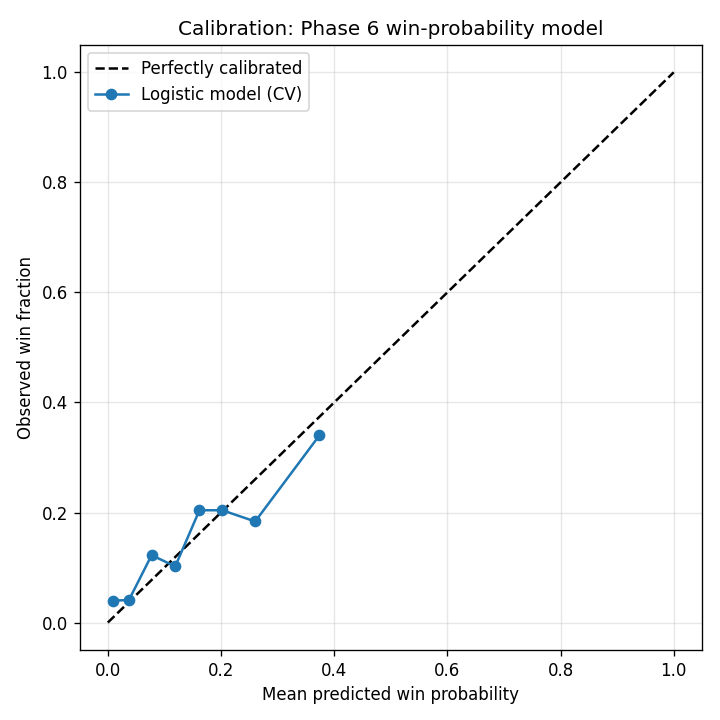
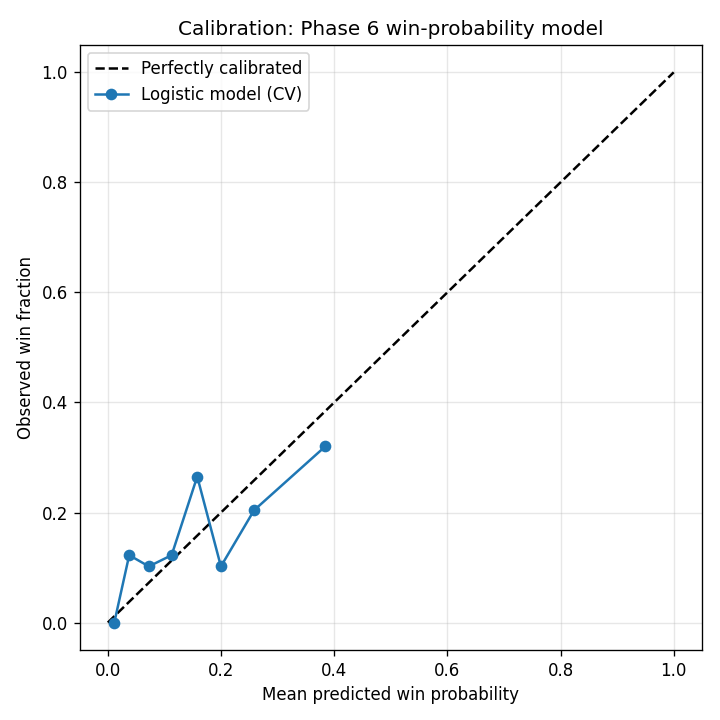
Add distance_delta as picks column 19 (held out of active model)
Parser extracts today's distance from race headers ('6 Furlongs',
'1Mile.', '1 1/16 Miles', '1 Mile 70 Yards') and last-race distance
from PP line prefixes, decoding 'm'/'f' units plus Brisnet glyphs
'^'=1/16 mile and 'N'=70 yards. distance_delta = today_furlongs -
last_furlongs is stored on entries and picks for future analysis.

Coverage 1062/2895 entries (37%), 192/565 picks (34%) -- glyph prefix
junk limits older PPs.

Bucket win rates vs ML-implied (n=519 joined): turnback -0.5 to -1.5f
shows +1.1% edge, but every other bucket underperforms ML by 1-3%.

CV ablation (same data) -- every transform of distance_delta HURT
log loss vs dropping it:
  (a) drop dist_delta_c    1.4540   <-- best
  (b) raw linear           1.4574
  (c) abs(any change)      1.4555
  (d) clip [-2,+2]         1.4588
  (e) clip [-1,+1]         1.4601
Picks logistic: 0.4123 without vs 0.4195 with -- also hurts.

Decision: parser, DB columns, and picks file format keep the data
captured for future revisits, but dist_delta_c is excluded from
CL_FEATURES and distance_delta from NUMERIC_FEATURES. The public
morning line is already pricing distance changes efficiently --
opposite of the beaten_lengths and class_delta results.

CL retrained: log loss 1.4540 vs ML 1.4501, top-pick hit 46.7%
vs ML favorite 41.2% (n=199 races / 1104 starters).

diff --git a/scripts/brisnet_parser_v2.py b/scripts/brisnet_parser_v2.py
@@ -417,6 +417,68 @@ def extract_last_class(block_lines):
     return races[max(races)] if races else None
 
 
+# PP-line distance tokens: 6f, 5½ (going fused: "5½ft"), 1m, and route
+# glyphs verified by final times on FP cards (1m ~1:41 < 1Ñ ~1:45 < 1ˆ ~1:47):
+# ˆ = 1/16 mile, Ñ = 70 yards. Optional junk char before the number is a
+# surface/inner-track marker (Ì à š æ).
+_DIST_FRACTIONS = {'½': 0.5, '¼': 0.25, '¾': 0.75}
+_MILE_GLYPHS = {'ˆ': 0.5, 'Ñ': 0.32}   # in furlongs past the whole miles
+_PP_DIST_RE = re.compile(
+    r'^\s*\d{1,2}[A-Za-z]{3}\d{2}\S*\s+[^\s\d]{0,2}(\d{1,2})([½¼¾ˆÑ]?)([mf]?)')
+
+
+def _ppline_furlongs(line):
+    m = _PP_DIST_RE.match(line)
+    if not m:
+        return None
+    n, glyph, unit = int(m.group(1)), m.group(2), m.group(3)
+    if glyph in _DIST_FRACTIONS:
+        return n + _DIST_FRACTIONS[glyph]
+    if glyph in _MILE_GLYPHS:
+        return n * 8 + _MILE_GLYPHS[glyph]
+    if unit == 'm':
+        return n * 8.0
+    if unit == 'f':
+        return float(n)
+    return None
+
+
+def _header_furlongs(s):
+    """Today's distance in furlongs from a plain-text race header line
+    ('6 Furlongs', '1Mile.', '1 1/16 Miles', '1 Mile 70 Yards')."""
+    m = re.search(r'(\d{1,2})\s*(½|\d\s*/\s*\d+)?\s*Furlongs?', s)
+    if m:
+        f = float(m.group(1))
+        if m.group(2) == '½':
+            f += 0.5
+        elif m.group(2):
+            num, den = re.split(r'\s*/\s*', m.group(2))
+            f += float(num) / float(den)
+        return f
+    m = re.search(r'(\d)\s*(\d+\s*/\s*\d+)?\s*Miles?(?:\s*(?:and\s*)?(\d+)\s*Yards?)?', s)
+    if m:
+        miles = float(m.group(1))
+        if m.group(2):
+            num, den = re.split(r'\s*/\s*', m.group(2))
+            miles += float(num) / float(den)
+        f = miles * 8
+        if m.group(3):
+            f += float(m.group(3)) / 220.0
+        return f
+    return None
+
+
+def extract_last_distance(block_lines):
+    """Distance (furlongs) of the horse's most recent race, or None."""
+    races = {}
+    for line in block_lines:
+        d = _pp_line_date(line)
+        if d is None or races.get(d) is not None:
+            continue
+        races[d] = _ppline_furlongs(line)
+    return races[max(races)] if races else None
+
+
 def last_race_date_from_block(block):
     """Most recent past-race date in a horse's PP block, or None
     (first-time starters have no PP lines)."""
@@ -459,6 +521,14 @@ def parse_brisnet(text, track_code='GP', race_date=None):
                 races[current_race]['surface'] = 'AW'
             else:
                 races[current_race]['surface'] = 'Dirt'
+
+        # ── Today's distance from the plain-text header lines ────────────────
+        if current_race and races[current_race].get('dist_furlongs') is None:
+            for hline in lines[:10]:
+                f = _header_furlongs(hline)
+                if f:
+                    races[current_race]['dist_furlongs'] = f
+                    break
 
         # ── Purse / class money: the race header may share a page with horse
         # blocks (condensed y-format), so check every page ────────────────────
@@ -639,6 +709,7 @@ def parse_brisnet(text, track_code='GP', race_date=None):
 
             beaten_len = extract_beaten_lengths(block, lines)
             last_class = extract_last_class(block)
+            last_dist  = extract_last_distance(block)
 
             # ── Speed figures from PP lines in block ──────────────────────────
             spd_figs   = extract_speed_figures(block)  # [(figure, surface), ...]
@@ -711,20 +782,24 @@ def parse_brisnet(text, track_code='GP', race_date=None):
                 'best_spd_turf': best_spd_turf, 'best_spd_aw': best_spd_aw,
                 'improving': improving, 'jt_zero': jt_zero,
                 'jt_winpct': jt_winpct, 'beaten_len': beaten_len,
-                'last_class': last_class,
+                'last_class': last_class, 'last_dist': last_dist,
             }
 
             if not any(h['name'] == horse for h in races[current_race]['horses']):
                 races[current_race]['horses'].append(horse_data)
 
-    # class_delta needs today's class money (parsed from the race header
-    # page) and the horse's last-race class, so compute it after both passes
+    # class/distance deltas need today's values (parsed from the race header)
+    # and the horse's last-race values, so compute them after both passes
     for race in races.values():
         today_class = race.get('class_money')
+        today_dist = race.get('dist_furlongs')
         for h in race['horses']:
             lc = h.get('last_class')
             h['class_delta'] = (today_class - lc) \
                 if today_class is not None and lc is not None else None
+            ld = h.get('last_dist')
+            h['distance_delta'] = round(today_dist - ld, 2) \
+                if today_dist is not None and ld is not None else None
 
     return dict(races)
 
@@ -976,8 +1051,8 @@ def write_entries_db(races, track_code, race_date):
                     "ml_odds,prime_power,pp_rank,trainer,jockey,sire,"
                     "days_off,claim_price,best_spd,best_spd_turf,best_spd_aw,"
                     "recent_spd,improving,jt_zero,jt_winpct,beaten_lengths,"
-                    "class_delta,signal_types,is_pick)"
-                    " VALUES(?,?,?,?,?,?,?,?,?,?,?,?,?,?,?,?,?,?,?,?,?,?,?,?,?)",
+                    "class_delta,distance_delta,signal_types,is_pick)"
+                    " VALUES(?,?,?,?,?,?,?,?,?,?,?,?,?,?,?,?,?,?,?,?,?,?,?,?,?,?)",
                     (race_id, tc, date_str, rn, h['pp'],
                      h['name'].replace(' ', ''),
                      ml_to_float(h['ml']),
@@ -997,6 +1072,7 @@ def write_entries_db(races, track_code, race_date):
                      h.get('jt_winpct'),
                      h.get('beaten_len'),
                      h.get('class_delta'),
+                     h.get('distance_delta'),
                      ','.join(s[0] for s in h['signals']) or None,
                      int(is_strong_pick(h)))
                 )
@@ -1016,7 +1092,7 @@ def write_picks_file(all_picks, track_code, filepath):
     out_path = Path(__file__).parent / f"picks_{tc}_{date_str}.txt"
     lines = [
         f"# Benter Model Picks - {tc} {date_str}",
-        "# Format: TRACK RACE HORSE SIGNAL BETS ML_ODDS PP_POWER TRAINER WIN_PROB EV_RATIO DAYS_OFF BEST_SPD SPD1 SPD2 SPD3 JT_WINPCT BEATEN_LEN CLASS_DELTA",
+        "# Format: TRACK RACE HORSE SIGNAL BETS ML_ODDS PP_POWER TRAINER WIN_PROB EV_RATIO DAYS_OFF BEST_SPD SPD1 SPD2 SPD3 JT_WINPCT BEATEN_LEN CLASS_DELTA DIST_DELTA",
     ]
     for rn, h in sorted(all_picks, key=lambda x: x[0]):
         if is_trainer_hotjt(h):
@@ -1035,9 +1111,10 @@ def write_picks_file(all_picks, track_code, filepath):
         jt_col     = str(h['jt_winpct']) if h.get('jt_winpct') is not None else '?'
         bl_col     = f"{h['beaten_len']:.2f}" if h.get('beaten_len') is not None else '?'
         cd_col     = str(h['class_delta']) if h.get('class_delta') is not None else '?'
+        dd_col     = f"{h['distance_delta']:.2f}" if h.get('distance_delta') is not None else '?'
         # WIN_PROB/EV_RATIO (cols 9-10) are '?' until prob_predict.py --in-place fills them
         lines.append(f"{tc} {rn} {horse_name} {sig_type} WPS {ml_col} {pp_col} {trainer_col}"
-                     f" ? ? {do_col} {best_col} {spd_cols} {jt_col} {bl_col} {cd_col}")
+                     f" ? ? {do_col} {best_col} {spd_cols} {jt_col} {bl_col} {cd_col} {dd_col}")
 
     out_path.write_text('\n'.join(lines) + '\n', encoding='utf-8')
     return out_path

diff --git a/scripts/db_migrate.py b/scripts/db_migrate.py
@@ -70,6 +70,7 @@ CREATE TABLE IF NOT EXISTS picks (
     jt_winpct       REAL,
     beaten_lengths  REAL,
     class_delta     REAL,
+    distance_delta  REAL,
     trainer_name    TEXT,
     trainer_exempt  INTEGER DEFAULT 0,
     filtered_reason TEXT,
@@ -114,6 +115,7 @@ CREATE TABLE IF NOT EXISTS entries (
     jt_winpct     REAL,
     beaten_lengths REAL,
     class_delta   REAL,
+    distance_delta REAL,
     signal_types  TEXT,
     is_pick       INTEGER DEFAULT 0,
     UNIQUE(track, race_date, race_num, horse_name)
@@ -146,12 +148,13 @@ def ensure_prob_columns(conn):
                           ('last_race_date', 'TEXT'), ('best_speed', 'INTEGER'),
                           ('recent_spd_1', 'INTEGER'), ('recent_spd_2', 'INTEGER'),
                           ('recent_spd_3', 'INTEGER'), ('jt_winpct', 'REAL'),
-                          ('beaten_lengths', 'REAL'), ('class_delta', 'REAL')):
+                          ('beaten_lengths', 'REAL'), ('class_delta', 'REAL'),
+                          ('distance_delta', 'REAL')):
         if col not in existing:
             conn.execute(f"ALTER TABLE picks ADD COLUMN {col} {col_type}")
             print(f"  schema: added picks.{col}")
     existing_e = {row[1] for row in conn.execute("PRAGMA table_info(entries)")}
-    for col in ('jt_winpct', 'beaten_lengths', 'class_delta'):
+    for col in ('jt_winpct', 'beaten_lengths', 'class_delta', 'distance_delta'):
         if col not in existing_e:
             conn.execute(f"ALTER TABLE entries ADD COLUMN {col} REAL")
             print(f"  schema: added entries.{col}")
@@ -220,7 +223,8 @@ def backfill_entry_columns(conn):
     same card). Add (picks_col, entries_col) pairs here as features grow."""
     for picks_col, entries_col in (('jt_winpct', 'jt_winpct'),
                                    ('beaten_lengths', 'beaten_lengths'),
-                                   ('class_delta', 'class_delta')):
+                                   ('class_delta', 'class_delta'),
+                                   ('distance_delta', 'distance_delta')):
         cur = conn.execute(
             f"UPDATE picks SET {picks_col} = ("
             f" SELECT e.{entries_col} FROM entries e"
@@ -468,6 +472,9 @@ def import_picks(conn):
             # Column 18: class delta (today's class money - last race's)
             try:    class_delta = float(parts[17]) if len(parts) >= 18 else None
             except: class_delta = None
+            # Column 19: distance delta in furlongs (today - last race)
+            try:    dist_delta = float(parts[18]) if len(parts) >= 19 else None
+            except: dist_delta = None
 
             cur.execute(
                 "SELECT race_id FROM races WHERE track=? AND race_date=? AND race_num=?",
@@ -481,17 +488,17 @@ def import_picks(conn):
                 "(track,race_date,race_num,race_id,horse_name,signal_type,bets,"
                 "ml_odds,pp_power,win_prob,ev_ratio,days_off,"
                 "best_speed,recent_spd_1,recent_spd_2,recent_spd_3,jt_winpct,"
-                "beaten_lengths,class_delta,trainer_name)"
-                " VALUES(?,?,?,?,?,?,?,?,?,?,?,?,?,?,?,?,?,?,?,?)",
+                "beaten_lengths,class_delta,distance_delta,trainer_name)"
+                " VALUES(?,?,?,?,?,?,?,?,?,?,?,?,?,?,?,?,?,?,?,?,?)",
                 (p_track, date_str, p_race, race_id, p_horse, p_signal, bets,
                  ml_odds, pp_power, win_prob, ev_ratio, days_off,
                  best_speed, rs1, rs2, rs3, jt_winpct, beaten_len, class_delta,
-                 trainer_name)
+                 dist_delta, trainer_name)
             )
             if cur.rowcount:
                 n_picks += 1
             elif any(v is not None for v in (win_prob, days_off, best_speed, jt_winpct,
-                                             beaten_len, class_delta)):
+                                             beaten_len, class_delta, dist_delta)):
                 # Pick imported before its file was annotated (or re-annotated
                 # after a model fix) — sync optional columns from the file
                 cur.execute(
@@ -503,10 +510,11 @@ def import_picks(conn):
                     " recent_spd_3=COALESCE(?,recent_spd_3),"
                     " jt_winpct=COALESCE(?,jt_winpct),"
                     " beaten_lengths=COALESCE(?,beaten_lengths),"
-                    " class_delta=COALESCE(?,class_delta)"
+                    " class_delta=COALESCE(?,class_delta),"
+                    " distance_delta=COALESCE(?,distance_delta)"
                     " WHERE track=? AND race_date=? AND race_num=? AND horse_name=?",
                     (win_prob, ev_ratio, days_off, best_speed, rs1, rs2, rs3, jt_winpct,
-                     beaten_len, class_delta, p_track, date_str, p_race, p_horse)
+                     beaten_len, class_delta, dist_delta, p_track, date_str, p_race, p_horse)
                 )
 
     conn.commit()

diff --git a/scripts/prob_model.py b/scripts/prob_model.py
@@ -40,6 +40,10 @@ CL_CALIBRATION_PLOT_PATH = os.path.join(SCRIPT_DIR, "calibration_plot_cl.png")
 
 NUMERIC_FEATURES = ["ml_odds", "pp_power", "days_off", "best_speed", "jt_winpct",
                     "beaten_lengths", "class_delta"]
+# distance_delta is captured in entries/picks but held out of the active model:
+# ablation showed it hurts CV log loss in both the picks logistic (0.4123 -> 0.4195)
+# and the conditional logit (1.4540 -> 1.4574). Distance changes are already
+# efficiently priced by the public ML.
 CATEGORICAL_FEATURES = ["signal_type", "track", "surface"]
 
 TRAINING_SQL = """
@@ -54,6 +58,7 @@ SELECT
     p.jt_winpct,
     p.beaten_lengths,
     p.class_delta,
+    p.distance_delta,
     COALESCE(rc.surface, 'Dirt')             AS surface,
     COALESCE(e.finish_pos, r.finish_pos)     AS finish_pos,
     r.odds                                   AS final_odds,
@@ -152,6 +157,7 @@ def train_picks_model():
     print(f"  jt_winpct present: {df['jt_winpct'].notna().sum()}/{n}")
     print(f"  beaten_lengths present: {df['beaten_lengths'].notna().sum()}/{n}")
     print(f"  class_delta present: {df['class_delta'].notna().sum()}/{n}")
+    print(f"  distance_delta present: {df['distance_delta'].notna().sum()}/{n}")
     print("  surface: constant ('Dirt' for every race in DB) - no signal")
 
     pipe = build_pipeline()
@@ -240,6 +246,9 @@ CL_FEATURES = ["log_ml", "prime_power_c", "pp_missing",
                "jt_winpct_c", "jt_missing", "beaten_c", "class_delta_c",
                "improving",
                "jt_zero", "sig_trainer", "sig_sire", "sig_horse", "sig_hotjt"]
+# dist_delta_c held out: CV ablation showed every transform of distance_delta
+# (raw, abs, clip[-2,+2], clip[-1,+1]) hurt log loss vs dropping it. The bucket
+# data confirms distance changes are efficiently priced by the public ML.
 CL_L2 = 1.0
 
 CL_SQL = """
@@ -256,6 +265,7 @@ SELECT
     e.jt_winpct,
     e.beaten_lengths,
     e.class_delta,
+    e.distance_delta,
     e.improving,
     e.jt_zero,
     e.signal_types,
@@ -414,6 +424,7 @@ def train_conditional_logit():
     print(f"jt_winpct present:   {(df['jt_missing'] == 0).sum()}/{n_starters}")
     print(f"beaten_len present:  {df['beaten_lengths'].notna().sum()}/{n_starters}")
     print(f"class_delta present: {df['class_delta'].notna().sum()}/{n_starters}")
+    print(f"dist_delta present:  {df['distance_delta'].notna().sum()}/{n_starters}")
 
     recs, y_flat, p_flat = cl_cross_validate(races)
     ll_model = -np.log(np.maximum(recs["p_win_model"], 1e-12)).mean()

diff --git a/scripts/prob_predict.py b/scripts/prob_predict.py
@@ -5,7 +5,7 @@ Usage:
 
 Reads a picks file (TRACK RACE HORSE SIGNAL BETS ML_ODDS PP_POWER
 TRAINER [WIN_PROB EV_RATIO DAYS_OFF BEST_SPD SPD1 SPD2 SPD3 JT_WINPCT
-BEATEN_LEN CLASS_DELTA]) and
+BEATEN_LEN CLASS_DELTA DIST_DELTA]) and
 appends WIN_PROB, EV_RATIO, an EV flag, and RANK, writing
 <input>_prob.txt unless -o is given.
 
@@ -54,10 +54,11 @@ def parse_picks_file(path):
             row["jt_winpct"] = parts[15] if len(parts) >= 16 else "?"
             row["beaten_lengths"] = parts[16] if len(parts) >= 17 else "?"
             row["class_delta"] = parts[17] if len(parts) >= 18 else "?"
+            row["distance_delta"] = parts[18] if len(parts) >= 19 else "?"
             rows.append(row)
     df = pd.DataFrame(rows)
     for col in ("ml_odds", "pp_power", "days_off", "best_speed", "jt_winpct",
-                "beaten_lengths", "class_delta"):
+                "beaten_lengths", "class_delta", "distance_delta"):
         df[col] = pd.to_numeric(df[col].replace("?", np.nan), errors="coerce")
     return df, raw_lines
 
@@ -108,7 +109,7 @@ def main():
         out_path = args.output or os.path.splitext(args.picks_file)[0] + "_prob.txt"
     fmt_base = ("# Format: TRACK RACE HORSE SIGNAL BETS ML_ODDS PP_POWER TRAINER"
                 " WIN_PROB EV_RATIO DAYS_OFF BEST_SPD SPD1 SPD2 SPD3 JT_WINPCT"
-                " BEATEN_LEN CLASS_DELTA")
+                " BEATEN_LEN CLASS_DELTA DIST_DELTA")
     with open(out_path, "w", encoding="utf-8") as f:
         for line, tail, idx in raw_lines:
             if idx is None:

diff --git a/scripts/cl_predict.py b/scripts/cl_predict.py
@@ -59,6 +59,7 @@ def rows_from_pp(pp_file, track):
                 "jt_winpct": h.get("jt_winpct"),
                 "beaten_lengths": h.get("beaten_len"),
                 "class_delta": h.get("class_delta"),
+                "distance_delta": h.get("distance_delta"),
             })
     return pd.DataFrame(rows)
 
@@ -70,7 +71,8 @@ def rows_from_db(track, race_date):
     df = pd.read_sql_query(
         """SELECT race_num AS race_id, race_num, post_pos AS pp, horse_name,
                   ml_odds, prime_power, days_off, best_spd, jt_winpct,
-                  beaten_lengths, class_delta, signal_types, improving, jt_zero
+                  beaten_lengths, class_delta, distance_delta,
+                  signal_types, improving, jt_zero
            FROM entries WHERE track = ? AND race_date = ?
            ORDER BY race_num, post_pos""",
         con, params=(track.upper(), race_date),

diff --git a/scripts/cl_evaluate.py b/scripts/cl_evaluate.py
@@ -59,6 +59,7 @@ SELECT
     e.jt_winpct,
     e.beaten_lengths,
     e.class_delta,
+    e.distance_delta,
     e.signal_types,
     e.improving,
     e.jt_zero,
